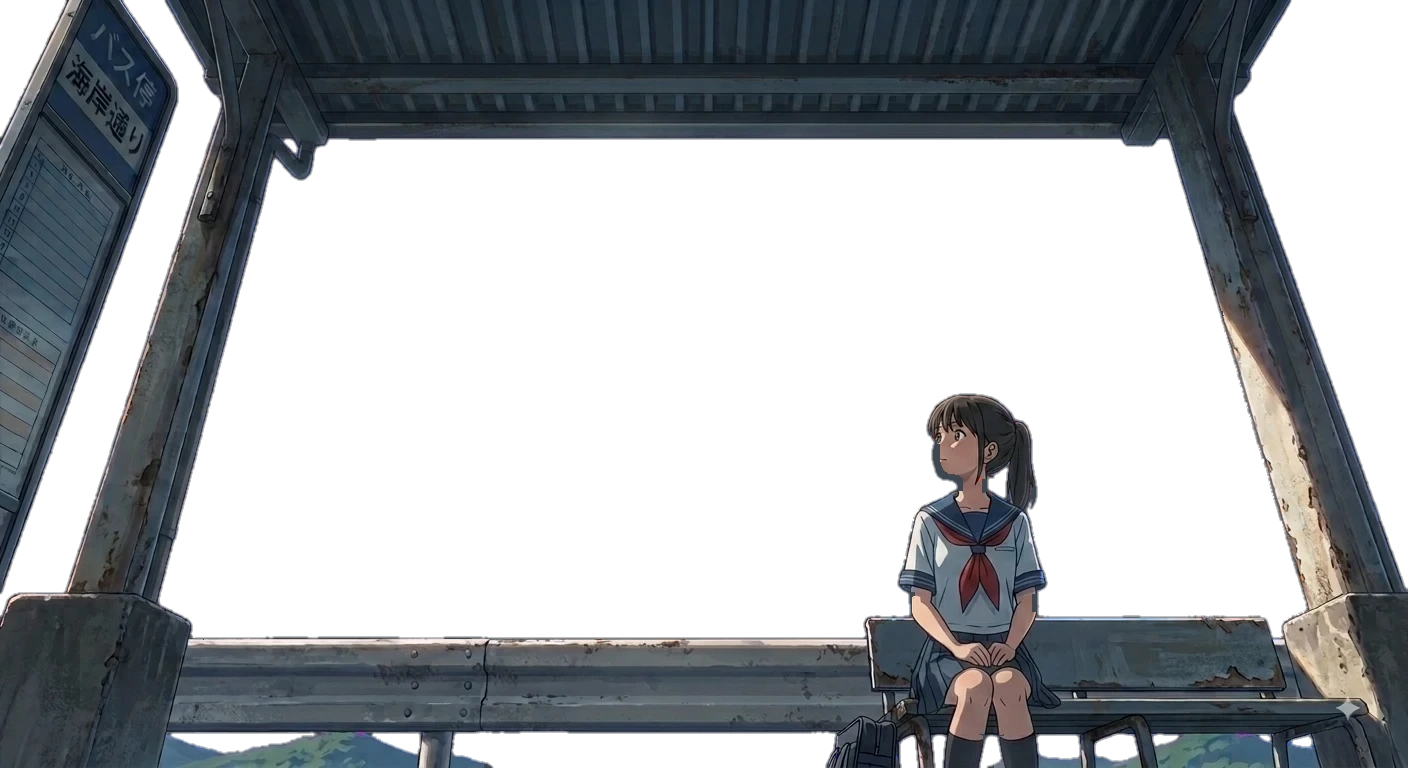
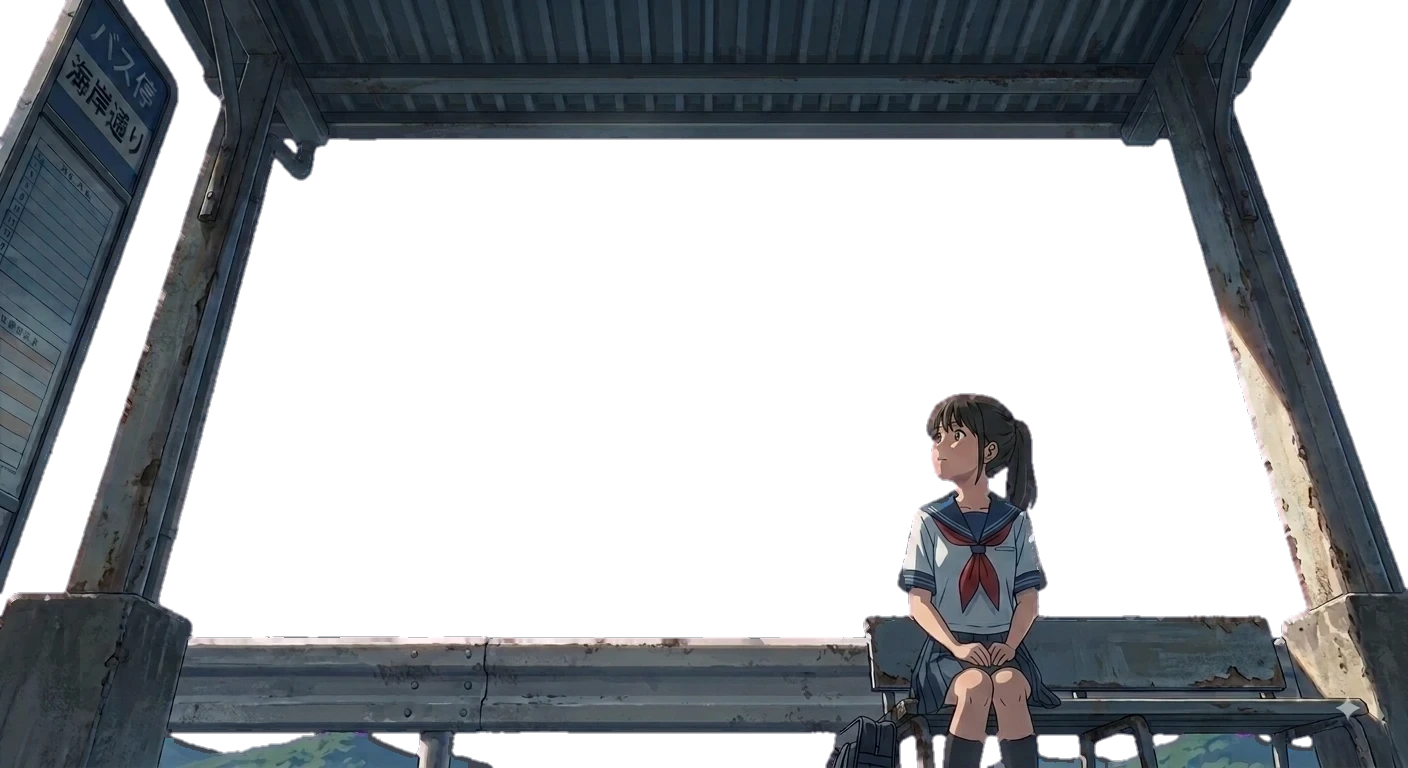
シーン3の顔が灰色になるのを直す（滲み判定を b-g にし、輝度を残す）
前のコミットの plate3 は肌を灰色にしていた。滲み判定 r+b-2g が肌も
+20 で拾い、それを matte から10px の範囲で近傍色に置き換えていたため、
頬が顎と髪の平均で塗られていた。

実測して式を選び直した（同じ軒天の1列を matte から内側へ辿った値）:

| 対象 | min(r,b)-g | r+b-2g | b-g |
|---|---|---|---|
| 汚染された軒天 (61,67,88) | -6 | 21 | 21 |
| きれいな軒天 (56,71,80) | -15 | -6 | 9 |
| 肌 (≈200,160,140) | -60 | 20 | -20 |

min(r,b)-g は滲みを取りこぼし（紫の筋が残る）、r+b-2g は肌と区別が
つかない。b-g は両方満たす。WebP は輝度を画素ごとに保つので、滲みで
壊れているのは色だけ — 置き換えも色だけにして輝度を戻す。これで顔・
鼻・顎・髪際の線が残る。

判定は2本立てにした:
- min(r,b)-g > 4、reach 10（シーン2のまま）。本当にマゼンタが混ざった
  画素用。ポニーテールの隙間のように深いところまで届く必要があり、
  肌は -60 なので誤爆しない。輝度ごと置き換える。
- b-g > 14、reach 8。非可逆 WebP の色差の滲み用。色だけ置き換える。

シーン1・2の出力はバイト単位で変化なし（plate2.webp を再生成して確認）。

diff --git a/scripts/plate.js b/scripts/plate.js
@@ -69,9 +69,9 @@ const SCENES = {
     art: null,
     keyed: repo('scene3-keyed.png'),
     out: repo('app', 'public', 'plate3.webp'),
-    // ...and it needs a different contamination test, `bleed` — see CASTS.
-    cast: 'bleed',
-    castThreshold: 12,
+    // ...and it needs a second contamination test beside the usual one, at its
+    // own much shorter reach. See MIX_AND_BLEED.
+    rules: 'mix+bleed',
   },
 };
 
@@ -207,19 +207,27 @@ const MAGENTA_CAST = 4;
  * `mix`, because r never rose. Any test built on both ends of the spectrum
  * being up together misses it by construction.
  *
- * `r + b - 2g` catches it: it asks only that the middle of the spectrum is down
- * relative to the ends, which is true of a partial magenta bleed whichever
- * chroma arrived first. It is a looser question, so it does also fire on
- * genuinely violet-leaning paint — but a false positive here costs nothing.
- * The repair replaces a suspect pixel with the mean of its *clean neighbours*,
- * which for a run of blue sign or red neckerchief is more of the same blue or
- * red; only the enclosed interior, which is never drawn, is replaced by a flat
- * colour. The test's job is to be sure it has caught everything, not to be
- * sparing.
+ * So `bleed` measures the component that actually arrived: `b - g`. Two other
+ * formulations were tried on this frame and both are recorded here because
+ * each fails in a way that is easy to mistake for success:
+ *
+ *  - `min(r, b) - g`, the `mix` test, scores the contaminated soffit at -6 and
+ *    leaves a violet thread along every roof edge and pillar.
+ *  - `r + b - 2g` does see it (21 against -6 for clean soffit a few rows
+ *    deeper) — but it also scores *skin* at about +20, because skin is warm and
+ *    that test cannot tell which end of the spectrum is up. Used at any useful
+ *    reach it repaints her face, which is what the first scene-3 plate did.
+ *
+ * `b - g` separates them cleanly: the contaminated soffit is +21 to +24, clean
+ * soffit +9, and her skin **-20**. It does still fire on genuinely blue paint —
+ * the bus-stop sign, the sea — and that costs nothing: the repair replaces a
+ * suspect pixel with the mean of its *clean neighbours*, which along a run of
+ * blue sign is more blue sign, and it keeps the pixel's own brightness (see
+ * `chromaOnly` below), so the lettering stays where it is.
  */
 const CASTS = {
   mix: (r, g, b) => Math.min(r, b) - g,
-  bleed: (r, g, b) => r + b - 2 * g,
+  bleed: (r, g, b) => b - g,
 };
 /**
  * A cast this strong is the flood wherever it is, so it is repaired without the
@@ -235,36 +243,64 @@ const CASTS = {
  */
 const STRONG_CAST = 20;
 /**
- * The same idea for the `bleed` test, which needs its own number because it is
- * a much looser question: 20 on `r + b - 2g` is the girl's red neckerchief, not
- * the flood. Undiluted flood scores 409 there and a half-and-half mixture with
- * dark hair still scores about 210, while the warmest real paint in scene 3 —
- * that neckerchief — tops out near 120. 150 sits between them.
+ * The default rule set: one test, the flood-mixture one, at the reach and
+ * thresholds scene 2 was tuned with. Scene 3 overrides it (see MIX_AND_BLEED).
  */
-const STRONG_BLEED = 150;
+const MIX_ONLY = [{ cast: 'mix', threshold: MAGENTA_CAST, reach: REPAIR_REACH, strong: STRONG_CAST }];
+
+/**
+ * Scene 3's rule set: two tests, because it has two different damages and one
+ * rule cannot have both radii.
+ *
+ * The *mixture* rule is scene 2's, unchanged, and it is what reaches deep. It
+ * has to: the sky comes through her ponytail in wedges several pixels into the
+ * hair, and those wedges are genuinely part magenta. `min(r, b) - g` can be
+ * trusted that far in because nothing painted here scores positive on it —
+ * her skin, the warmest broad thing in the frame, sits at about -20.
+ *
+ * The *bleed* rule is the encode's chroma spread. It stays close to the matte —
+ * 8, against the measured depth of the bleed, which reads +21 four rows in from
+ * the matte and is back to the clean +9 by ten — because it is a looser test
+ * than the mixture one and there is no reason to let it wander.
+ *
+ * There is no unconditional tier on it — `strong: Infinity` — because anything
+ * strong enough to be worth chasing across open paint is a mixture, and the
+ * mixture rule already has it at `strong: 20`.
+ */
+const MIX_AND_BLEED = [
+  ...MIX_ONLY,
+  { cast: 'bleed', threshold: 14, reach: 8, strong: Infinity },
+];
+
 function repairFlood(data, isKey, W, H, C, opts = {}) {
-  const cast = CASTS[opts.cast || 'mix'];
-  const castThreshold = opts.castThreshold ?? MAGENTA_CAST;
+  const rules = opts.rules || MIX_ONLY;
   const passes = opts.passes ?? 4;
-  const strong = opts.cast === 'bleed' ? STRONG_BLEED : STRONG_CAST;
-  // The rim: near the matte, and still carrying the flood's colour.
+  // The rim: near the matte, and still carrying the flood's colour. `damaged`
+  // marks the pixel; `chromaOnly` records that the *only* rule that caught it
+  // was a bleed rule, which decides how much of it may be overwritten below.
   const damaged = new Uint8Array(isKey);
+  const chromaOnly = new Uint8Array(W * H);
   for (let y = 0; y < H; y++) {
     for (let x = 0; x < W; x++) {
       const p = y * W + x;
       if (isKey[p]) continue;
-      const c = cast(data[p * C], data[p * C + 1], data[p * C + 2]);
-      if (c <= castThreshold) continue;
-      if (c > strong) { damaged[p] = 1; continue; }
-      let near = false;
-      for (let dy = -REPAIR_REACH; dy <= REPAIR_REACH && !near; dy++) {
-        for (let dx = -REPAIR_REACH; dx <= REPAIR_REACH; dx++) {
-          const xx = x + dx, yy = y + dy;
-          if (xx < 0 || yy < 0 || xx >= W || yy >= H) continue;
-          if (isKey[yy * W + xx]) { near = true; break; }
+      for (const rule of rules) {
+        const c = CASTS[rule.cast](data[p * C], data[p * C + 1], data[p * C + 2]);
+        if (c <= rule.threshold) continue;
+        let hit = c > rule.strong;
+        for (let dy = -rule.reach; dy <= rule.reach && !hit; dy++) {
+          for (let dx = -rule.reach; dx <= rule.reach; dx++) {
+            const xx = x + dx, yy = y + dy;
+            if (xx < 0 || yy < 0 || xx >= W || yy >= H) continue;
+            if (isKey[yy * W + xx]) { hit = true; break; }
+          }
         }
+        if (!hit) continue;
+        // A pixel both rules claim is a mixture: the stricter rule wins, and
+        // its brightness is not worth keeping.
+        chromaOnly[p] = damaged[p] ? chromaOnly[p] && rule.cast === 'bleed' : rule.cast === 'bleed';
+        damaged[p] = 1;
       }
-      if (near) damaged[p] = 1;
     }
   }
 
@@ -287,13 +323,10 @@ function repairFlood(data, isKey, W, H, C, opts = {}) {
   // forbidden (plan.md — line art is not to be touched). Replacing Cb/Cr and
   // keeping Y takes the violet off and leaves every stroke where the artist
   // put it.
-  const keepLuma = opts.cast === 'bleed';
-  const luma = keepLuma ? new Float32Array(W * H) : null;
-  if (luma) {
-    for (let p = 0; p < W * H; p++) {
-      if (!damaged[p]) continue;
-      luma[p] = 0.299 * data[p * C] + 0.587 * data[p * C + 1] + 0.114 * data[p * C + 2];
-    }
+  const luma = new Float32Array(W * H);
+  for (let p = 0; p < W * H; p++) {
+    if (!chromaOnly[p] || isKey[p]) continue;
+    luma[p] = 0.299 * data[p * C] + 0.587 * data[p * C + 1] + 0.114 * data[p * C + 2];
   }
 
   // Dilate clean colour inward, one ring per pass.
@@ -329,9 +362,9 @@ function repairFlood(data, isKey, W, H, C, opts = {}) {
   // than a proper YCbCr round trip: the ratio moves Y to where it was while
   // holding Cb/Cr's *direction*, which is all this needs, and it cannot
   // manufacture a hue the dilation did not hand it.
-  if (luma) {
+  {
     for (let p = 0; p < W * H; p++) {
-      if (!damaged[p] || isKey[p]) continue; // under the matte, nothing is drawn
+      if (!chromaOnly[p] || isKey[p]) continue; // under the matte, nothing is drawn
       const y = 0.299 * data[p * C] + 0.587 * data[p * C + 1] + 0.114 * data[p * C + 2];
       if (y < 1) continue;
       const k = luma[p] / y;
@@ -406,8 +439,7 @@ async function main() {
   const repair = scene.art
     ? null
     : repairFlood(ref.data, isKey, W, H, ref.C, {
-        cast: scene.cast,
-        castThreshold: scene.castThreshold,
+        rules: scene.rules === 'mix+bleed' ? MIX_AND_BLEED : MIX_ONLY,
       });
 
   const out = Buffer.alloc(W * H * 4);
